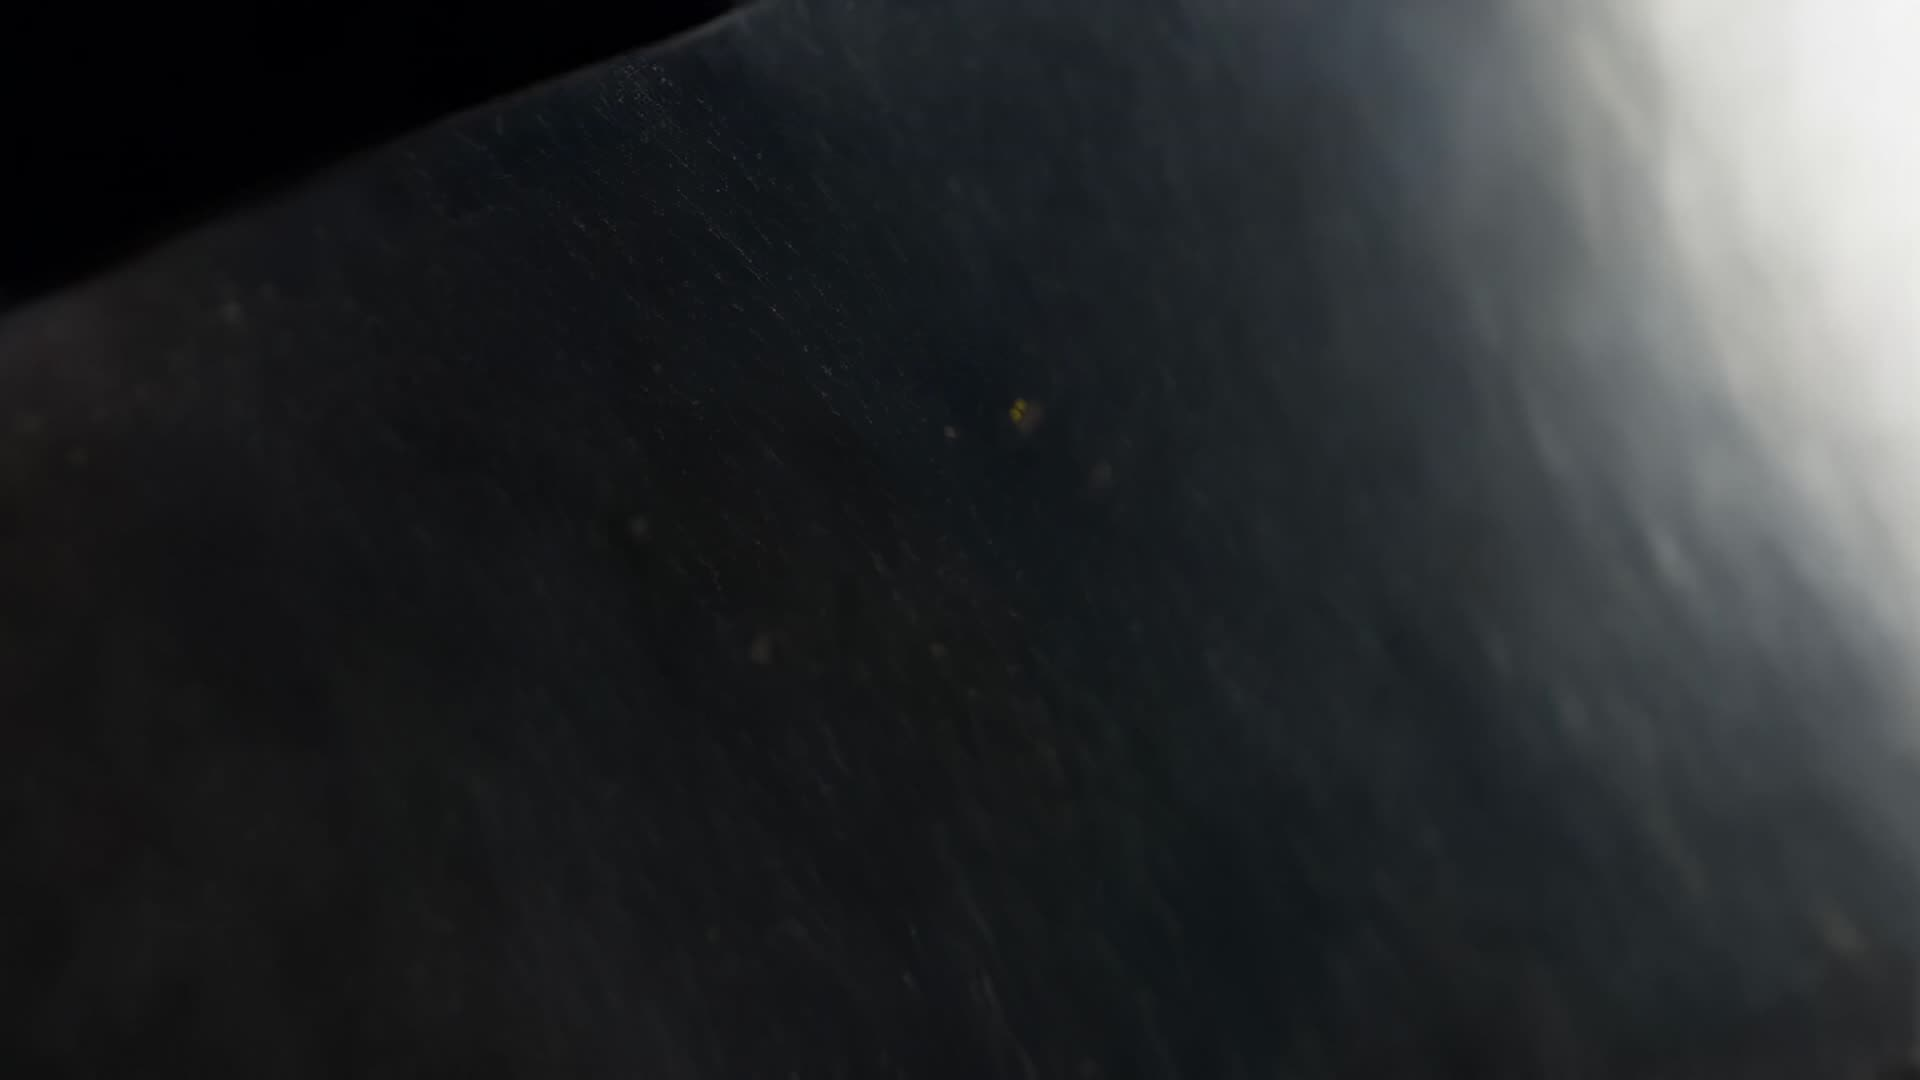
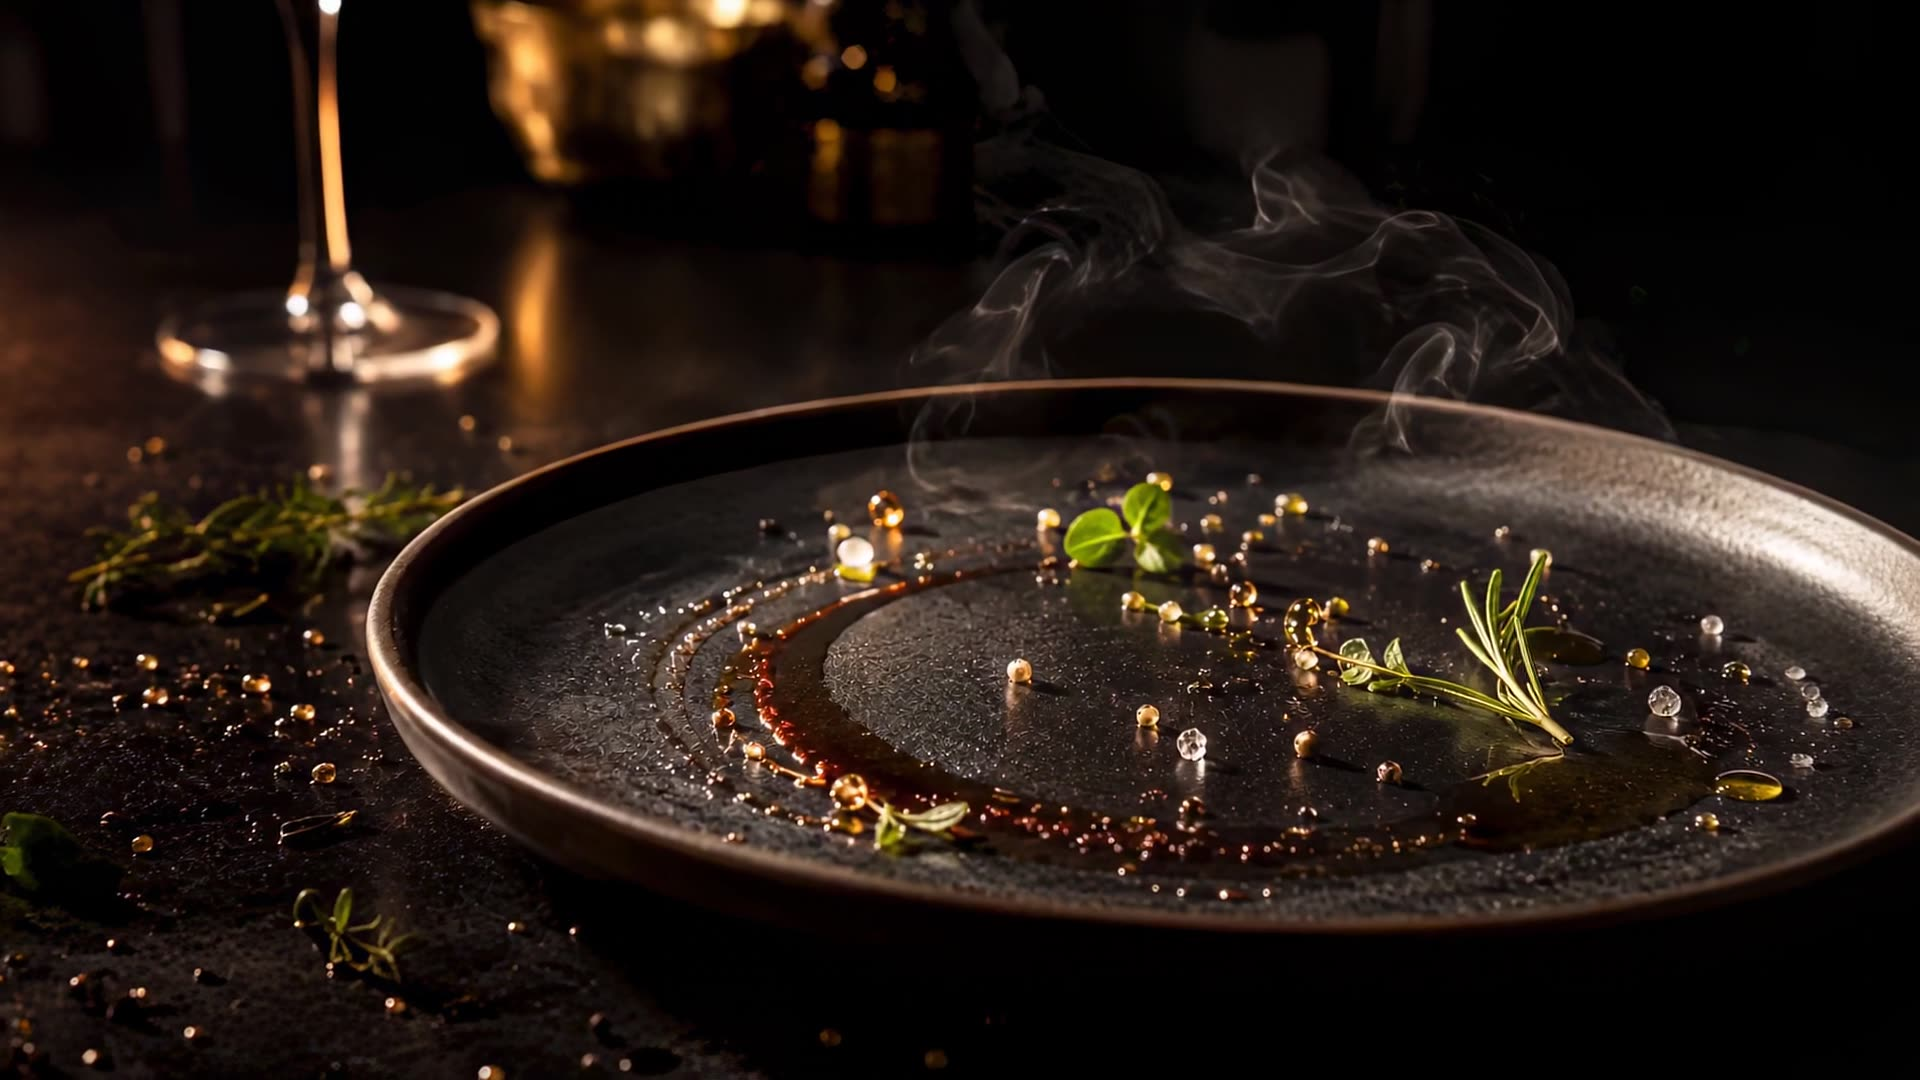
studio: pósters mejores, corchetes con espacios duros, idioma conserva la query
Póster de Mesa negra con el plato humeante, póster de Running sin logo
visible, Meta con espacios duros, el selector ES/EN conserva ?servicio= y
beasties deja de precargar subconjuntos de fuente innecesarios.

Claude-Session: https://claude.ai/code/session_01PMogYmhzoc1iUymje3TASt

diff --git a/studio/src/components/MobileMenu.tsx b/studio/src/components/MobileMenu.tsx
@@ -12,7 +12,7 @@ import { navCopy } from './Nav'
 export function MobileMenu({ open, onClose }: { open: boolean; onClose: () => void }) {
   const lang = useLang()
   const t = navCopy[lang]
-  const { pathname } = useLocation()
+  const { pathname, search } = useLocation()
   const ref = useRef<HTMLDivElement>(null)
   const closeRef = useRef<HTMLButtonElement>(null)
   const wa = whatsappHref()
@@ -110,7 +110,7 @@ export function MobileMenu({ open, onClose }: { open: boolean; onClose: () => vo
               WhatsApp
             </a>
           )}
-          <Link to={alternatePath(pathname, other)} hrefLang={other} onClick={onClose} className="type-meta min-h-11 content-center text-mute">
+          <Link to={alternatePath(pathname, other) + search} hrefLang={other} onClick={onClose} className="type-meta min-h-11 content-center text-mute">
             {other.toUpperCase()}
           </Link>
         </div>

diff --git a/studio/src/components/Nav.tsx b/studio/src/components/Nav.tsx
@@ -19,7 +19,7 @@ export const navCopy = {
 export function Nav() {
   const lang = useLang()
   const t = navCopy[lang]
-  const { pathname } = useLocation()
+  const { pathname, search } = useLocation()
   const ref = useRef<HTMLElement>(null)
   const [solid, setSolid] = useState(false)
   const [open, setOpen] = useState(false)
@@ -120,7 +120,7 @@ export function Nav() {
           </ul>
           <div className="flex items-center gap-4">
             <Link
-              to={alternatePath(pathname, other)}
+              to={alternatePath(pathname, other) + search}
               hrefLang={other}
               className="type-meta min-h-11 content-center text-paper/80 hover:text-paper"
               aria-label={other === 'en' ? 'English version' : 'Versión en español'}

diff --git a/studio/src/components/Meta.tsx b/studio/src/components/Meta.tsx
@@ -2,5 +2,6 @@ import type { ReactNode } from 'react'
 
 /** Metadatos entre corchetes con cifras tabulares: [ Moda · 9:16 · 14 s ] */
 export function Meta({ children, className = '' }: { children: ReactNode; className?: string }) {
-  return <span className={`type-meta text-mute ${className}`}>[ {children} ]</span>
+  // Espacios duros: el corchete nunca queda solo en una línea
+  return <span className={`type-meta text-mute ${className}`}>[{'\u00a0'}{children}{'\u00a0'}]</span>
 }

diff --git a/studio/vite.config.ts b/studio/vite.config.ts
@@ -13,7 +13,7 @@ const config: UserConfig & { ssgOptions: Partial<ViteReactSSGOptions> } = {
   ssgOptions: {
     dirStyle: 'nested',
     formatting: 'none',
-    beastiesOptions: { preload: 'media', pruneSource: false },
+    beastiesOptions: { preload: 'media', pruneSource: false, preloadFonts: false },
   },
 }
 
